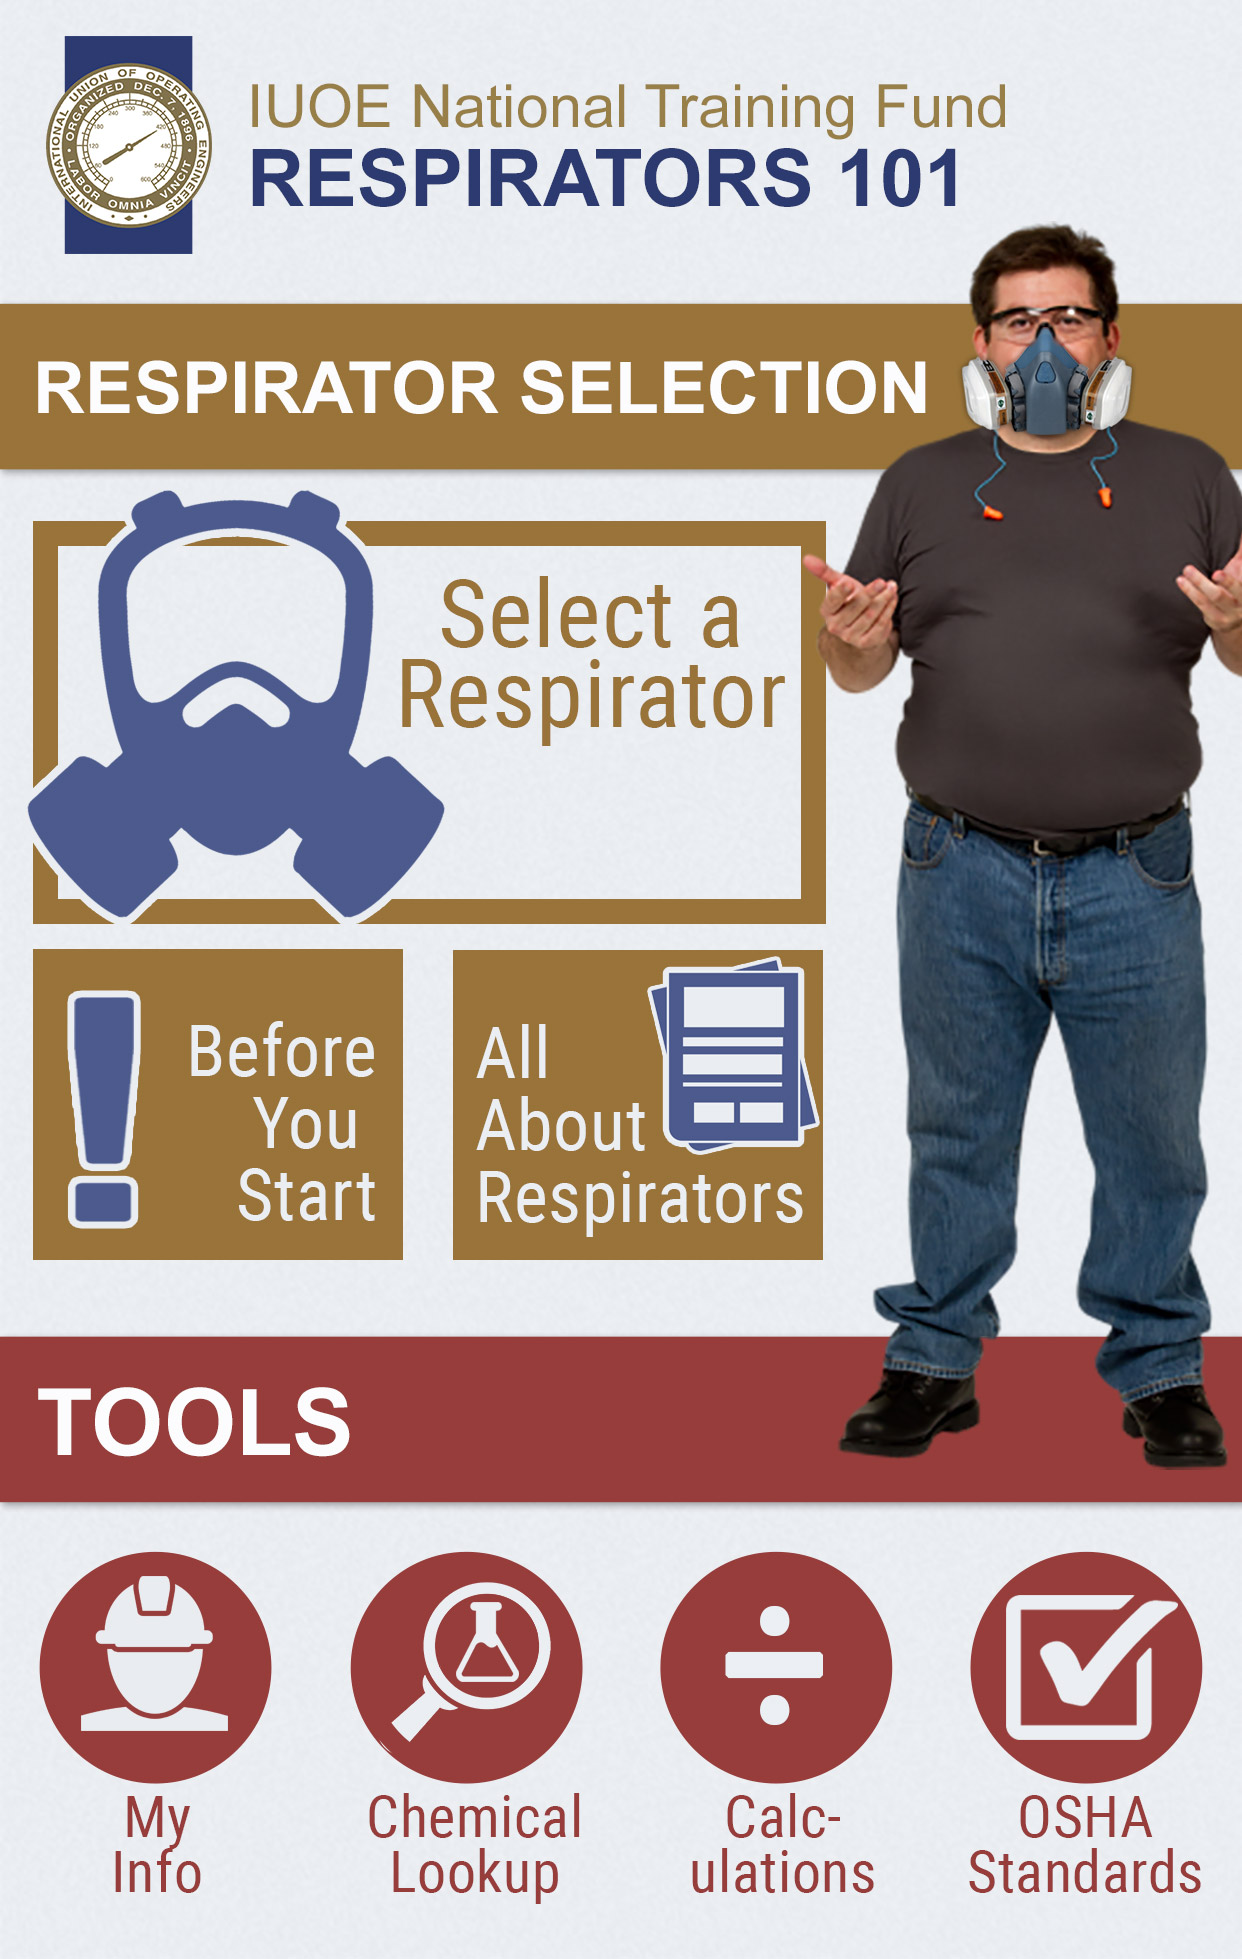
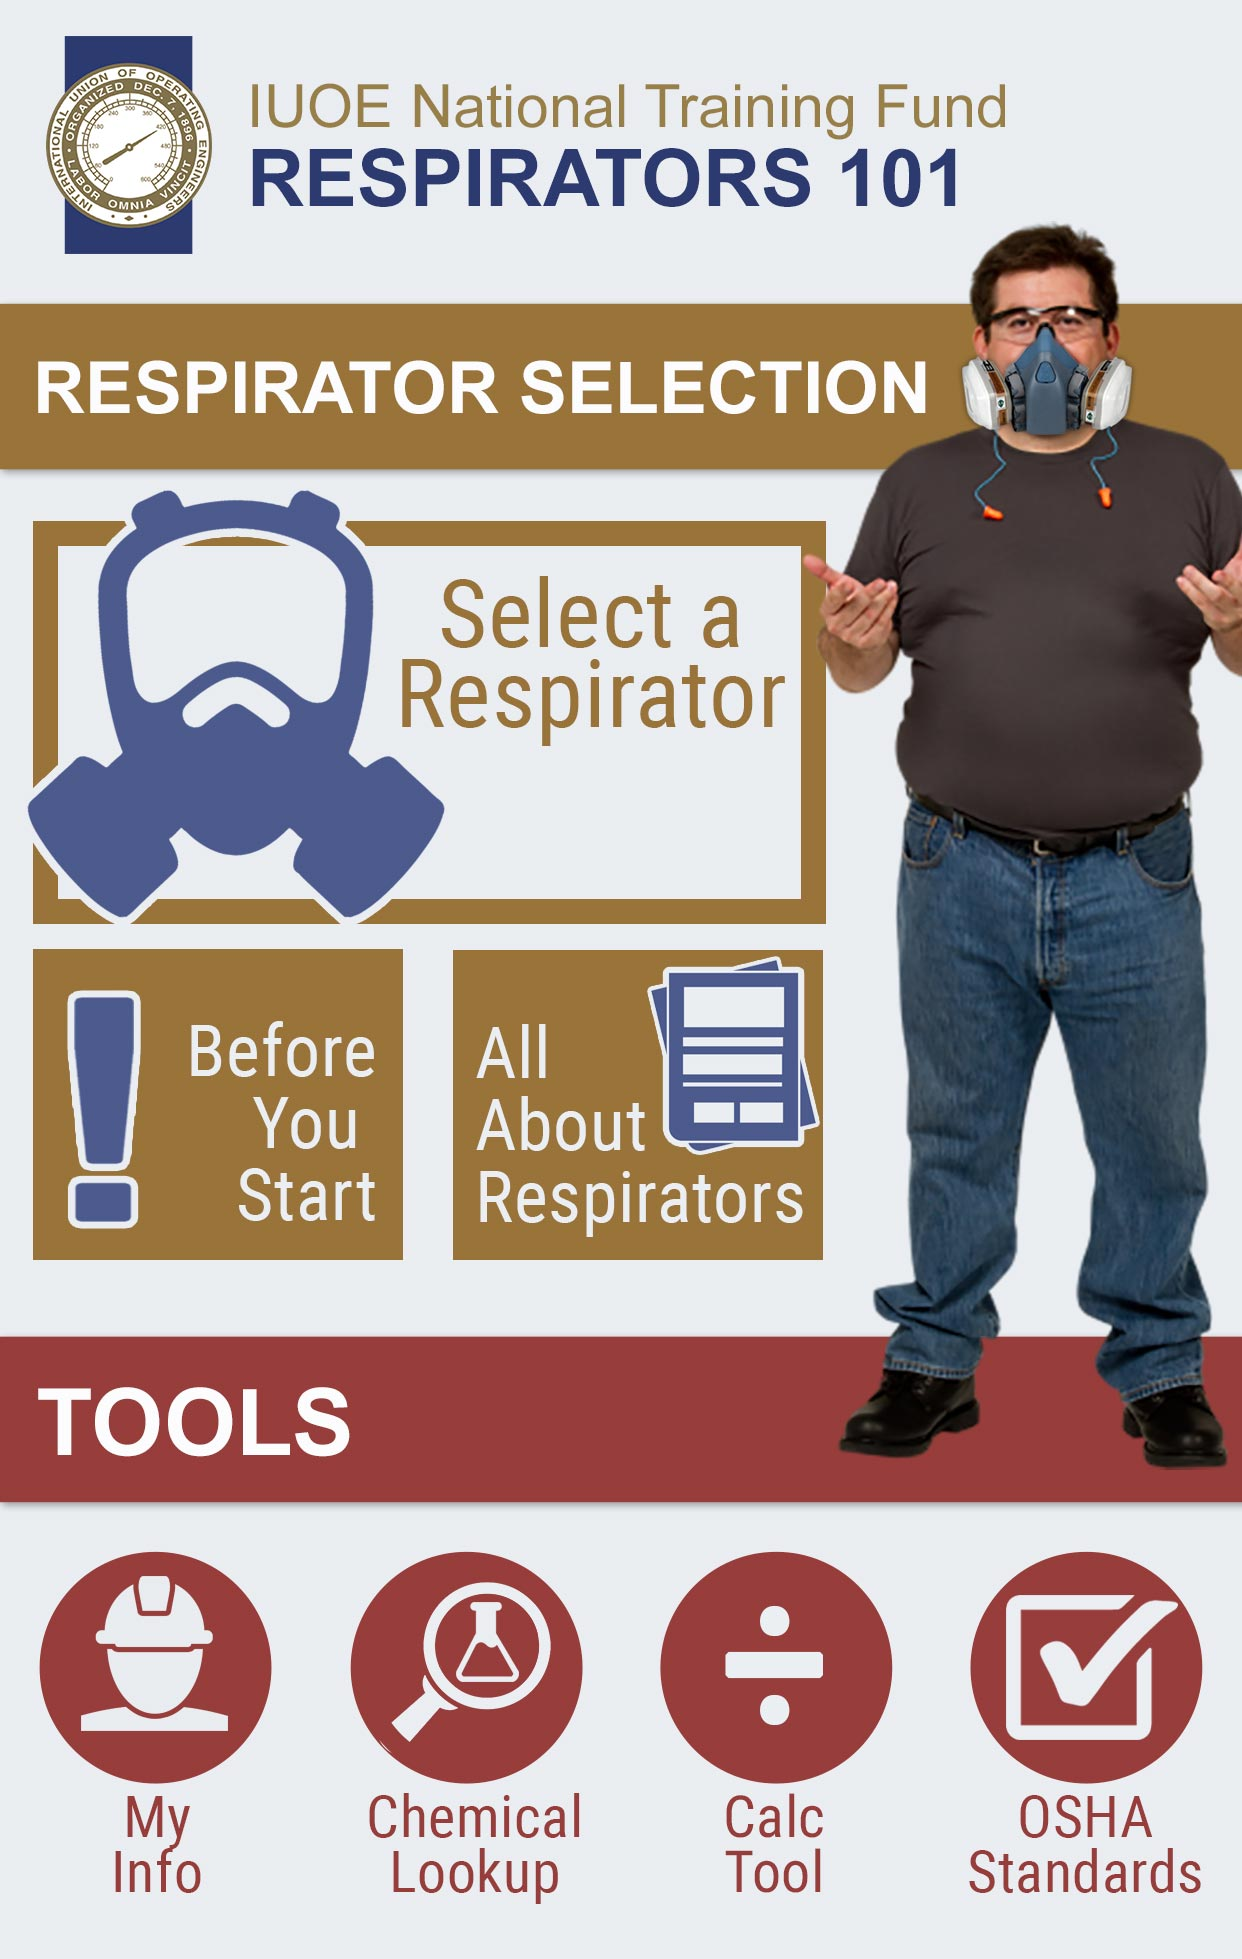
calculations -> calc tool

Changed region(s): [[0.5507, 0.903, 0.7037, 0.9653]]

diff --git a/client/lib/Menu.html b/client/lib/Menu.html
@@ -147,7 +147,7 @@
 		} 
 
 		/* red */
-		li.osha-standards, li.my-info, li.chemical-lookup, li.calculations {
+		li.osha-standards, li.my-info, li.chemical-lookup, li.calc-tool {
 			:global(a) {
 				background: $red3;
 				border-bottom: 1px solid $red4;
@@ -163,7 +163,7 @@
 		} 
 
 		/* hast icon */
-		li.home, li.getting-started, li.all-about-respirators, li.conversion-tables, li.osha-standards, li.respirator-selection-tool, li.my-info, li.chemical-lookup, li.calculations {
+		li.home, li.getting-started, li.all-about-respirators, li.conversion-tables, li.osha-standards, li.respirator-selection-tool, li.my-info, li.chemical-lookup, li.calc-tool {
 			> :global(a), :global(.clickable a) {
 				padding-left: 50px;
 				position: relative;
@@ -213,7 +213,7 @@
 			background-size: 40%;
 		}
 
-		li.calculations a::before {
+		li.calc-tool a::before {
 			background-image: url(icons/calculator.png);
 			background-size: 40%;
 		}
